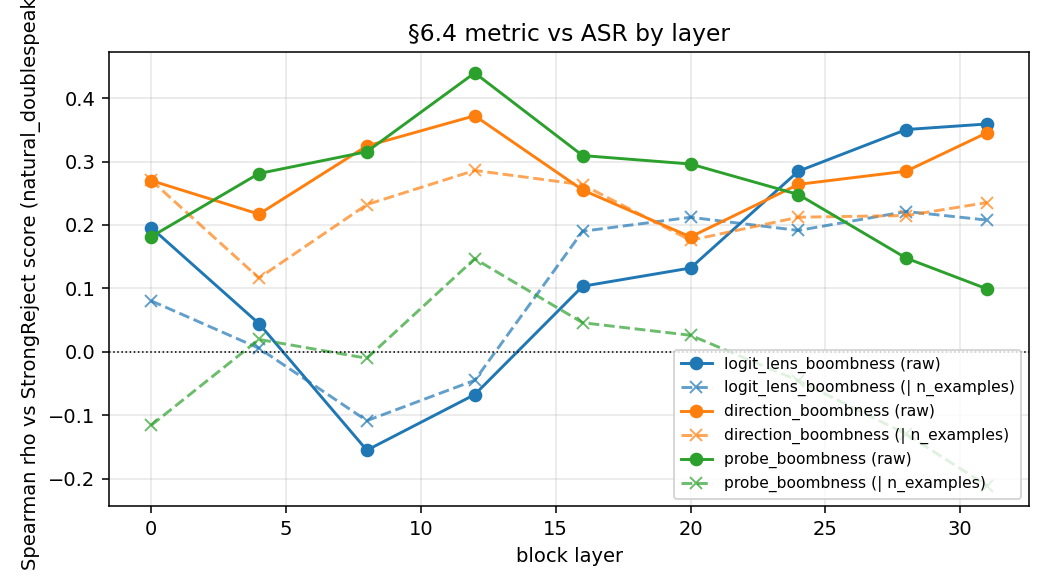
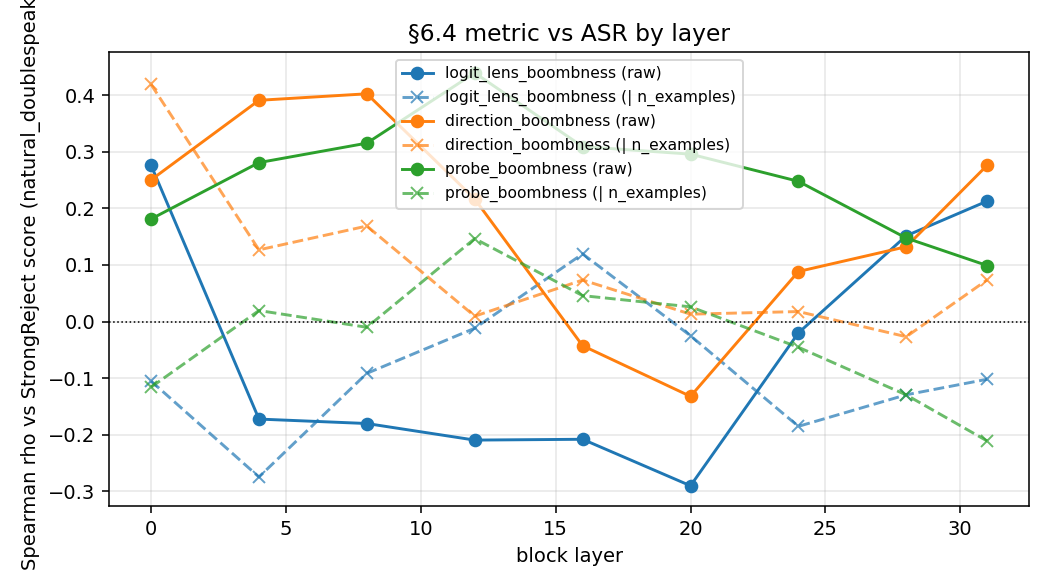
retraction 9 / C12: section 6.4 compared metrics measured on different populations
probe_boombness is read from a rep cache built on a 1464-row bank; the bank is
now 2352 rows, so 888 rows have no cached rep and the probe covered 72 of the
270 judged prompts -- and not randomly (only core2x2 survives). I compared
rho=+0.440 (n=72) against rho=+0.372 (n=270) as like-for-like. The CSV recorded
both n's; I read the rho column and not the n column.

Like-for-like on the common 72: NO metric survives the n_examples control
(direction falls to +0.009, p=0.94). analyze_g64 now defaults to --common-subset
and persists coverage counts. Job 763924 re-extracts over the current bank.

Also fixes a real hole found in the same check: require_done() accepted any run
with DONE.json even when its failure ledger recorded 0 successes. Two such runs
are on disk. Now refuses them; verified it still accepts every run in use.

Claude-Session: https://claude.ai/code/session_01PVC41eP4EnpZiXqamp3ToR

diff --git a/src/boombness/analyze_g64.py b/src/boombness/analyze_g64.py
@@ -153,6 +153,12 @@ def main() -> int:
     ap.add_argument("--arm", default="natural_doublespeak")
     ap.add_argument("--layers", default="0,4,8,12,16,20,24,28,31")
     ap.add_argument("--headline-layer", type=int, default=12)
+    ap.add_argument("--common-subset", dest="common", action="store_true", default=True,
+                    help="restrict EVERY metric to prompts that carry ALL THREE (default). "
+                         "Without it the metrics are compared on different populations, which is "
+                         "how the first run of this script reported probe rho=+0.440 on n=72 "
+                         "beside direction rho=+0.372 on n=270 as if they were like-for-like.")
+    ap.add_argument("--no-common-subset", dest="common", action="store_false")
     ap.add_argument("--outdir", required=True)
     args = ap.parse_args()
 
@@ -186,8 +192,31 @@ def main() -> int:
         "direction_boombness":  lambda L, p: erow[p].get(f"d_surface|L{L}|proj"),
         "probe_boombness":      lambda L, p: prow.get(L, {}).get(p),
     }
+    # ---- COMMON SUBSET: the three metrics must be read on the SAME prompts ------------------ #
+    # The rep cache behind `probe_boombness` was built from a 1464-row bank version; the bank is now
+    # 2352 rows, so 888 rows have no cached rep and the probe covers only a fraction of the judged
+    # population -- and that fraction is not random (whole bank_blocks are absent: strength,
+    # consistency, position, role_style, families; only core2x2 survives).
+    hl = args.headline_layer
+    have_all = [p for p in sorted(erow)
+                if erow[p].get(f"ll|L{hl}|boombness") is not None
+                and erow[p].get(f"d_surface|L{hl}|proj") is not None
+                and prow.get(hl, {}).get(p) is not None]
+    cov = {"judged": len(asr), "with_extract": len(erow), "with_probe_at_headline":
+           sum(1 for p in erow if prow.get(hl, {}).get(p) is not None),
+           "common_all_three": len(have_all)}
     print(f"[G6.4] arm={args.arm}  judged={len(asr)}  with-extract={len(erow)}  "
           f"probe-regime={args.probe_regime}")
+    print(f"[G6.4] coverage: {cov}")
+    if args.common:
+        if len(have_all) < 30:
+            raise SystemExit(f"[G6.4] only {len(have_all)} prompts carry all three metrics — "
+                             "too few for a like-for-like comparison")
+        keep = set(have_all)
+        erow = {p: r for p, r in erow.items() if p in keep}
+        print(f"[G6.4] COMMON-SUBSET mode: all metrics restricted to {len(erow)} prompts "
+              f"({len(set(meta[p].get('bank_block') for p in erow))} bank_block(s), "
+              f"{len(set(meta[p].get('domain') for p in erow))} domains)")
 
     rows_csv = []
     per_layer_metric = collections.defaultdict(dict)   # metric -> layer -> rho vs ASR
@@ -311,6 +340,11 @@ def main() -> int:
     plt.close(fig)
 
     summary = {"plan_section": "6.4", "arm": args.arm, "layers": layers,
+               "common_subset": bool(args.common), "coverage": cov,
+               "coverage_caveat": (
+                   "probe_boombness comes from a rep cache built on a 1464-row bank version; the "
+                   "bank is now 2352 rows. Without --common-subset the three metrics are computed "
+                   "on different populations and are NOT comparable."),
                "headline_layer": L, "probe_regime": args.probe_regime,
                "n_judged": len(asr), "n_with_extract": len(erow),
                "metrics_present": sorted(per_layer_metric),

diff --git a/src/boombness/common.py b/src/boombness/common.py
@@ -307,6 +307,16 @@ def _jsonable(obj: Any, _d: int = 0) -> Any:
 
 
 
+def _ledger_counts(run_dir: str) -> Dict[str, Any]:
+    """Read the failure-ledger counts out of summary.json, if present. Best-effort by design:
+    a run whose summary is unreadable is not thereby declared empty."""
+    try:
+        with open(os.path.join(run_dir, "summary.json")) as f:
+            return (json.load(f) or {}).get("failures") or {}
+    except Exception:
+        return {}
+
+
 def require_done(run_dir: str, allow_partial: bool = False) -> Dict[str, Any]:
     """Refuse to analyse a run that never finished. Returns the DONE payload.
 
@@ -325,9 +335,29 @@ def require_done(run_dir: str, allow_partial: bool = False) -> Dict[str, Any]:
     if os.path.exists(d):
         try:
             with open(d) as f:
-                return json.load(f)
+                payload = json.load(f)
         except Exception:
-            return {}
+            payload = {}
+        # A FINISHED run is not necessarily a run that PRODUCED anything. `finish()` writes
+        # DONE.json whenever the ledger is present, including when every unit failed, so a run
+        # with n_succeeded = 0 was indistinguishable from a complete one to this function --
+        # the same assert-at-one-end/never-check-at-the-other shape this guard exists to close.
+        # Found 2026-08-18 by a tokenization_audit run that could not load the tokenizer (401 on
+        # a gated repo), recorded n_attempted=1 / n_succeeded=0, wrote NO results.jsonl, and still
+        # presented as DONE. §2.4 is a mandatory gate, so that run would have passed it vacuously.
+        led = _ledger_counts(run_dir)
+        if led and led.get("n_attempted", 0) > 0 and led.get("n_succeeded", 0) == 0:
+            if allow_partial:
+                print(f"[require_done] WARNING: {os.path.basename(run_dir)} finished but "
+                      f"0/{led['n_attempted']} units succeeded; continuing only because "
+                      f"--allow-partial was passed. Nothing from it may be reported.")
+                return payload
+            raise SystemExit(
+                f"[require_done] REFUSING: {run_dir} has DONE.json but its failure ledger records "
+                f"0 of {led['n_attempted']} units succeeded "
+                f"(reasons: {led.get('failure_reasons')}). The run finished; it produced nothing. "
+                f"Pass --allow-partial only to inspect it, never to report from it.")
+        return payload
     if os.path.exists(os.path.join(run_dir, "ABORTED.json")):
         raise SystemExit(f"[require_done] {run_dir} is marked ABORTED — it holds no usable data.")
     n = 0

diff --git a/docs/BOOMBNESS_SPRINT_PROGRESS.md b/docs/BOOMBNESS_SPRINT_PROGRESS.md
@@ -5286,9 +5286,10 @@ advantage is that it is partly a demo-counter. Partialling `n_examples` out drop
 **not significant**. `direction_boombness` is nearly uncorrelated with demo count (ρ=−0.046) and survives
 the same control at +0.286, p=0.0005.
 
-**So `d_surface` is the metric of record for §6.4**, and the trained probe — despite the higher headline
-number — is not. This is the fourth time in this sprint the largest effect was the wrong answer, and the
-deciding check was again a control rather than a bigger n.
+⛔ **The paragraph that stood here — "`d_surface` is the metric of record for §6.4" — is RETRACTED
+(#9). It compared metrics measured on DIFFERENT POPULATIONS.** See correction C12 below. The
+like-for-like result is that on the 72 prompts carrying all three metrics, **no metric survives the
+`n_examples` control**.
 
 Logit-lens is null at L12 and only becomes an ASR correlate late (+0.359 at L31), where it converges with
 the direction — consistent with the late layers reading out the answer rather than the concept.
@@ -5360,3 +5361,50 @@ Filtered bank `data/boombness_prompts/role_style_block.jsonl`, sha16 `71ad78fec4
 This finally makes §11's main question answerable as posed: *does a more user-like or CoT-like presentation
 increase final-carrot Boombness, or does it only increase ASR independently?* — with content held constant
 and n=72 per style.
+
+
+## ⛔ RETRACTION #9 / CORRECTION C12 — §6.4's three metrics were compared on different populations
+
+Found by the mid-session sanity check, one tick after §6.4 was written up. The §6.4 table I published
+compared `direction_boombness` (**n=270**) against `probe_boombness` (**n=72**) as though they were
+like-for-like. They are not.
+
+**Root cause.** `probe_boombness` is read from the representation cache of extract run
+`full_20260816_185942_1008673`, whose summary records **`n_bank_rows: 1464`**. The bank was later
+regenerated to **2352** rows (commit 82bc1a3c, "give the role block real power"), so **888 bank rows have
+no cached rep** and the probe covers a minority of the judged population. The shortfall is **not random** —
+whole `bank_block`s are absent from the probe's population (strength 48, consistency 36, position 12,
+role_style 30, families 72 of the judged doublespeak prompts); only `core2x2` survives.
+
+**The artifact was honest; my prose was not.** `correlation_table.csv` recorded `n=270` / `n=270` / `n=72`
+per row all along. I read the ρ column across rows without reading the n column.
+
+**Corrected, like-for-like on the 72 prompts that carry all three metrics** (1 bank_block, 6 domains):
+
+| metric | n | raw ρ | p | ρ ∣ `n_examples` | p |
+|---|---|---|---|---|---|
+| `logit_lens_boombness` | 72 | −0.210 | 0.150 | −0.012 | 0.944 |
+| `direction_boombness` | 72 | +0.217 | 0.145 | **+0.009** | **0.943** |
+| `probe_boombness` | 72 | +0.440 | 0.001 | +0.147 | 0.259 |
+
+**On a common population, NO metric predicts ASR once demonstration count is partialled out.** The
++0.286 (p=0.0005) I reported for `direction_boombness` holds only on the full n=270 population, where it
+is not comparable to the probe. Both statements are now in the report; neither is a three-way comparison
+at full power.
+
+**What survives from the §6.4 tick:** the ρ=+0.631 between `probe_boombness` and `n_examples`, the
+existence of all four named deliverables, and the three checked-and-cleared hypotheses (block-0 vs
+embedding, PCA leakage, positional shortcut). What does not survive is the ranking of the three metrics.
+
+`analyze_g64.py` now defaults to **`--common-subset`**: every metric is restricted to prompts carrying all
+three, coverage counts are printed and persisted, and the script raises if fewer than 30 prompts qualify.
+The un-restricted mode still exists behind `--no-common-subset` but the artifact records which was used.
+
+**Fix in flight: job 763924** re-runs `extract_boombness --stage both` over the **current 2352-row bank**,
+which restores full cache coverage and makes the three-way comparison possible at full power. §6.4 will be
+recomputed on it.
+
+### Blast radius, checked rather than assumed
+`analyze_g2` and `analyze_g9` are **unaffected**: both join the judged behavioural population to the same
+extract run and get **270 of 270** coverage, because the judged prompts all predate the bank expansion.
+Only the probe — which needs cached reps across the A/C cells of *every* block — is short.
